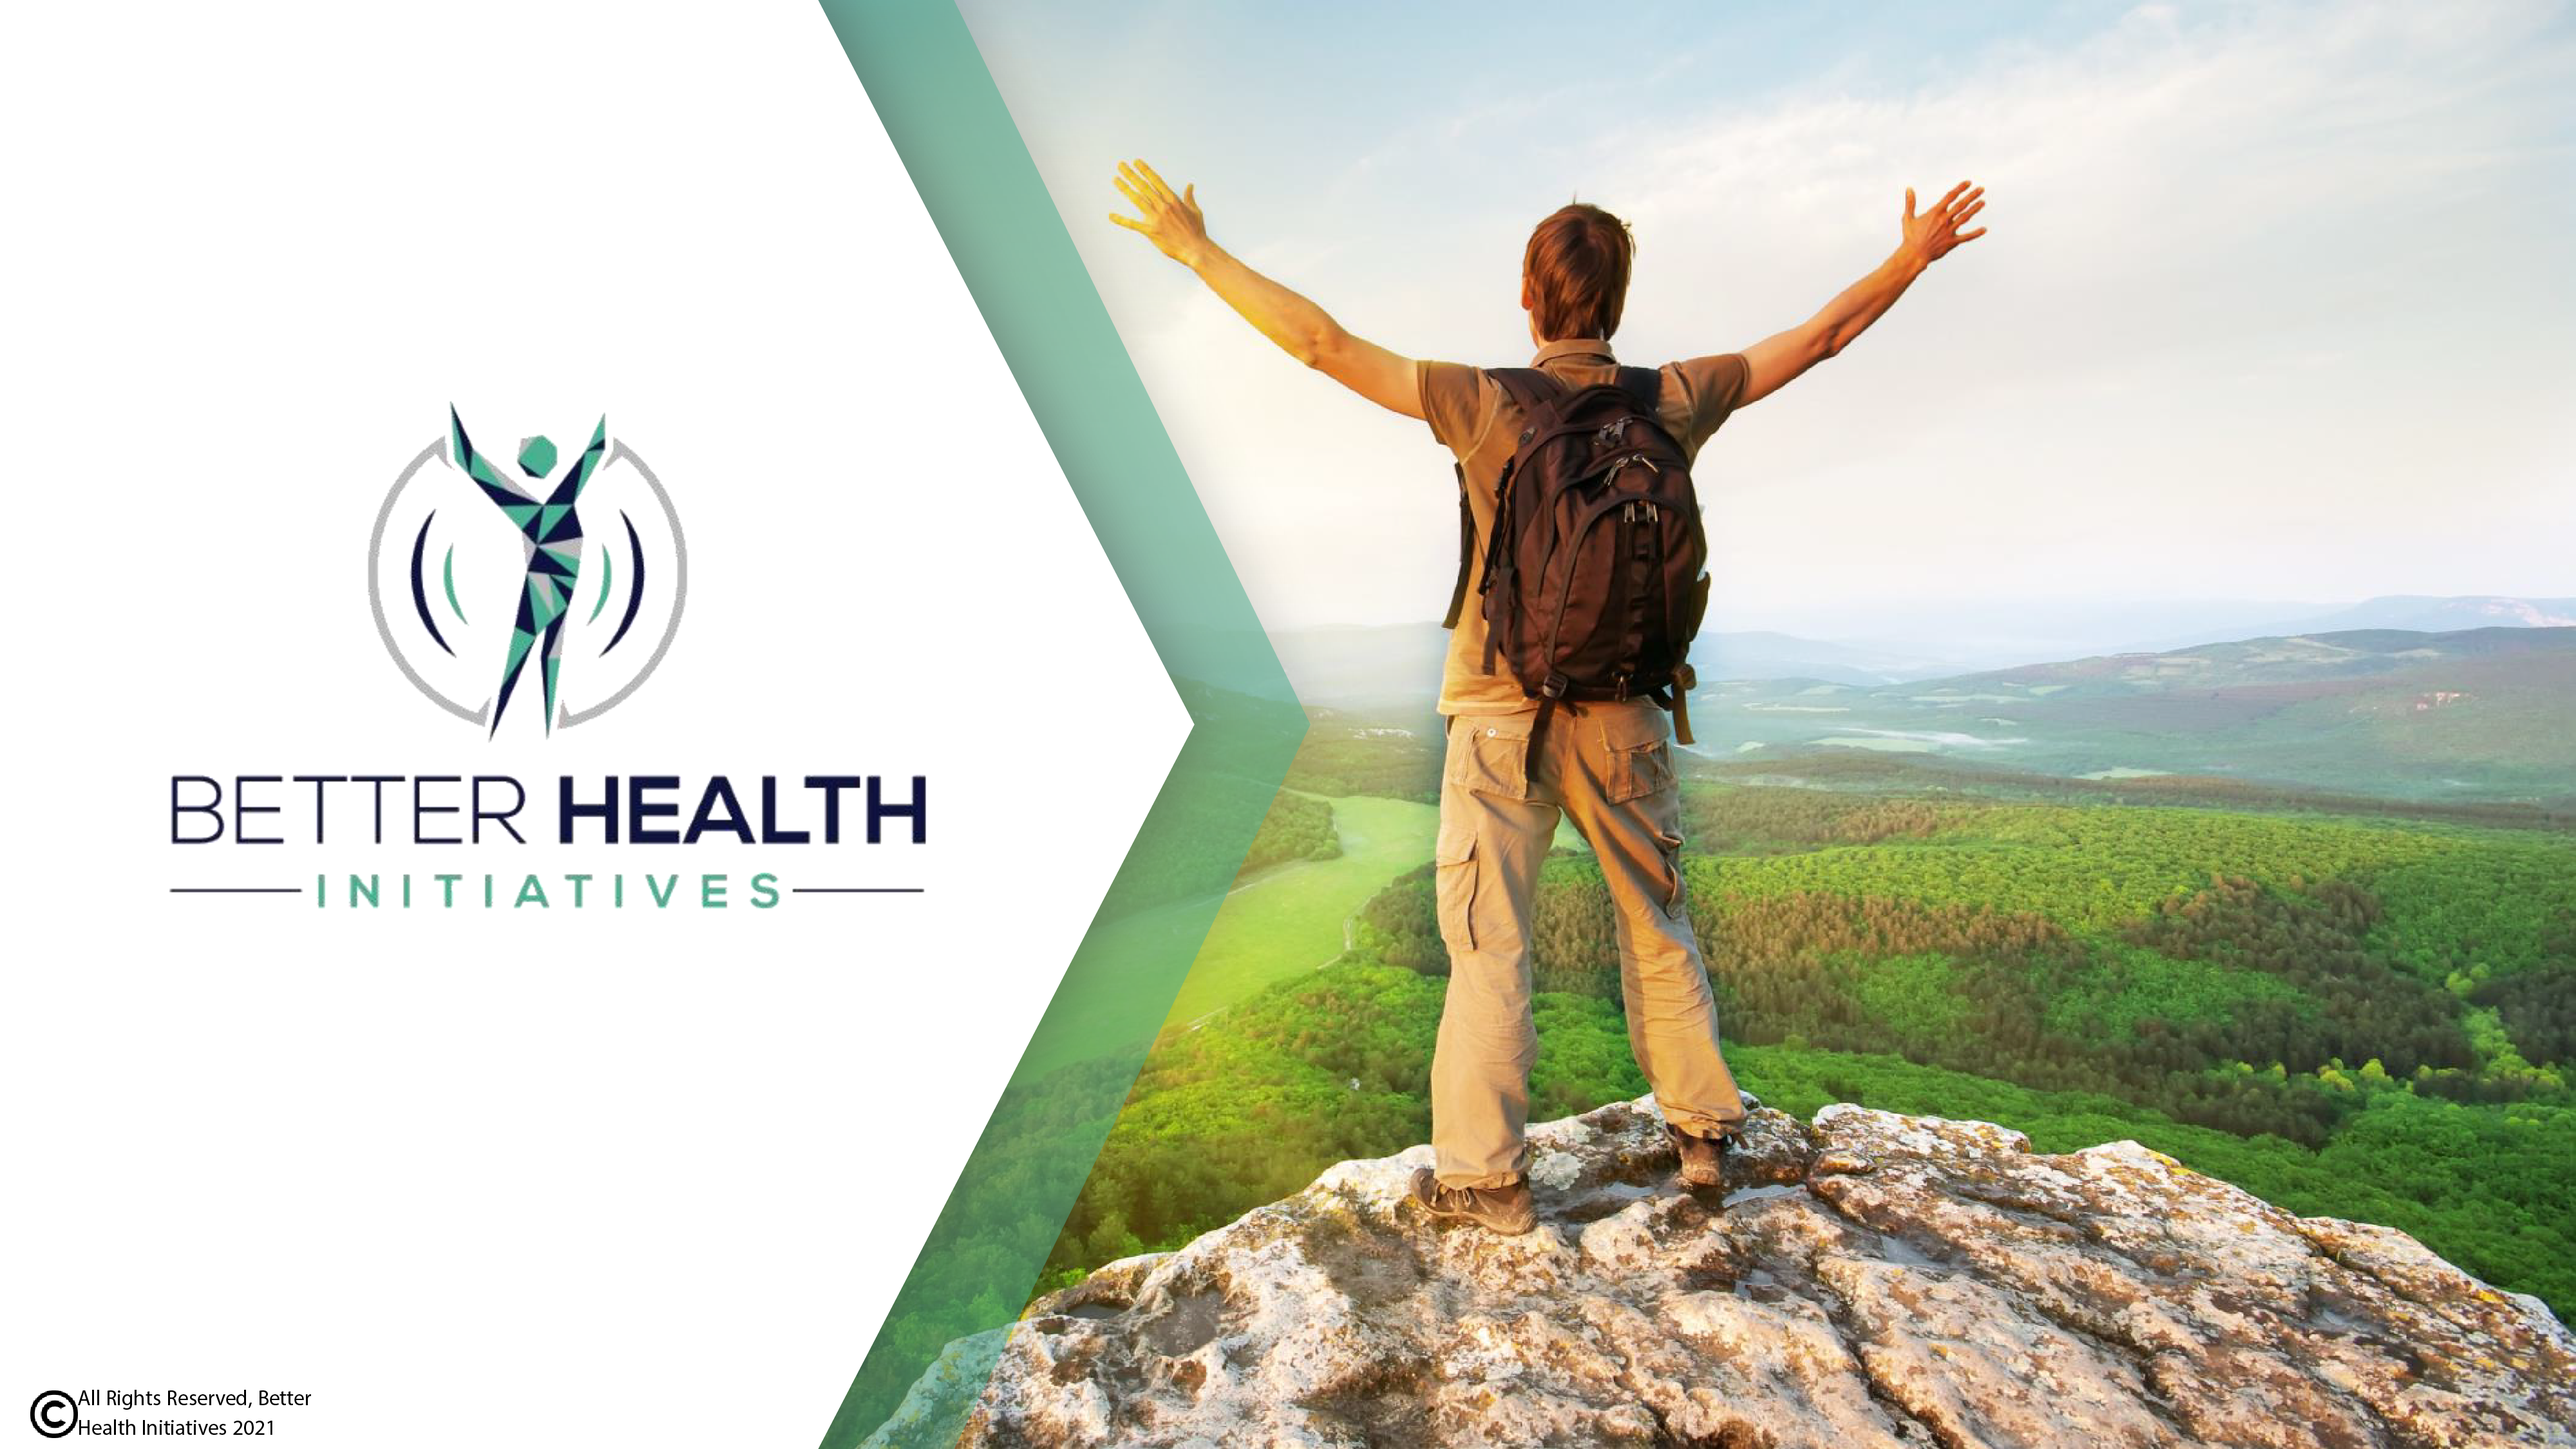
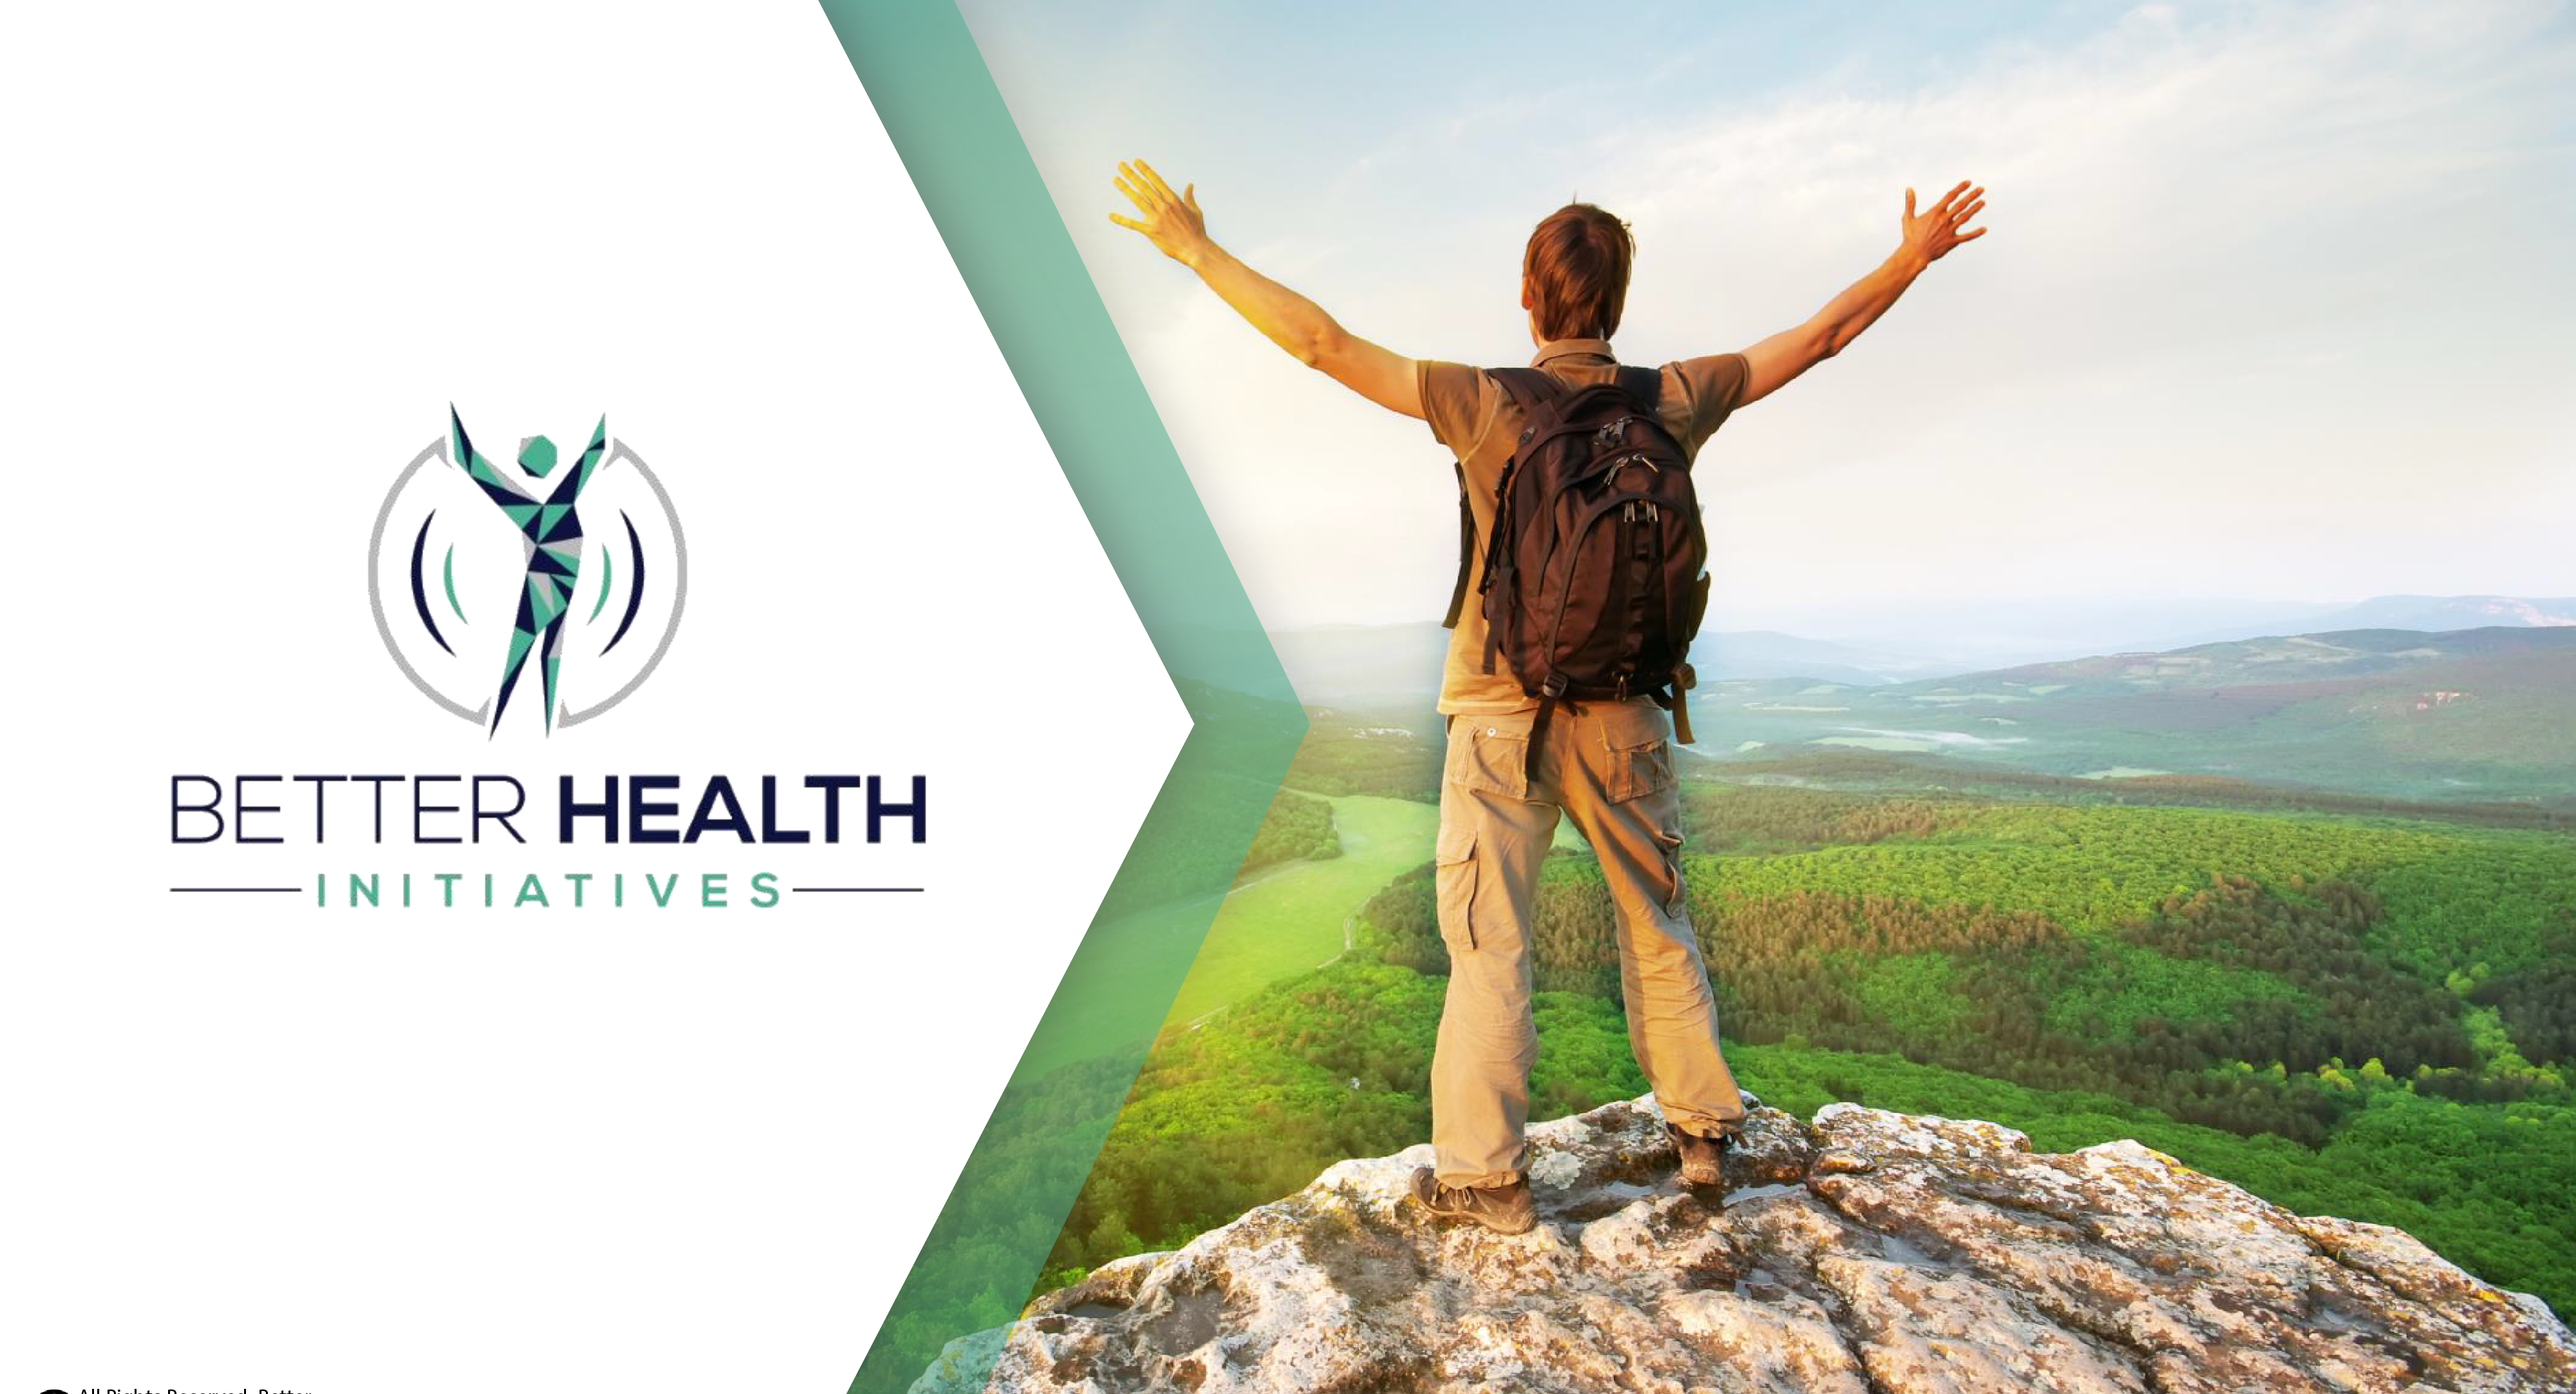
about section updated for moibile view

diff --git a/index.html b/index.html
@@ -82,22 +82,27 @@
           </div>
         </div>
       </section>
-      <section class="about container" id="about">
-        <h1>About Us</h1>
-        <div class="about__container">
+      <section class="about" id="about">
+        <div class="section-title about-title">
+          <h1>About Us</h1>
+          <span>Changing the way the world ages.</span>
+        </div>
+        <div class="about__container container grid">
           <div class="about__img">
             <img src="assets/images/morning-run.jpg" alt="" srcset="" />
           </div>
           <div class="about__info">
-            <h1>
-              About<br />
-              Better Health Initiatives
-            </h1>
-            <p>
-              A technology company that is focused on specialized, Healthcare
-              Professional support software that allows for expanded reach to
-              new and old patients and smarter, easier decision making.
-            </p>
+            <div class="about__content">
+              <h1>
+                About<br />
+                Better Health Initiatives
+              </h1>
+              <p>
+                A technology company that is focused on specialized, Healthcare
+                Professional support software that allows for expanded reach to
+                new and old patients and smarter, easier decision making.
+              </p>
+            </div>
           </div>
         </div>
       </section>

diff --git a/assets/css/style.css b/assets/css/style.css
@@ -232,14 +232,14 @@ img {
 /* Home Section */
 .home {
   width: 100%;
-  height: 80vh;
+  height: 100vh;
 }
 .home__img {
   position: absolute;
   top: 0;
   left: 0;
   width: 100%;
-  height: 80vh;
+  height: 100vh;
   object-fit: cover;
   object-position: 83%;
 }
@@ -257,26 +257,41 @@ img {
 }
 
 /* About Section */
+
+.section-title.about-title {
+  text-align: center;
+}
 .about__img {
-  margin-top: 100px;
+  margin-top: 60px;
   -webkit-clip-path: polygon(20% 0%, 80% 0%, 100% 100%, 0% 100%);
   clip-path: polygon(20% 0%, 80% 0%, 100% 100%, 0% 100%);
 }
 
 .about__container {
-  padding: 20px;
-  display: flex;
-  justify-content: space-around;
+  justify-content: center;
+  align-content: center;
 }
 
 .about__info {
-  width: 500px;
-  height: 500px;
-  padding: 10px;
+  width: 280px;
+  height: 280px;
+  padding-left: 10px;
+  margin-left: 10%;
   text-align: center;
   border-radius: 50%;
   box-shadow: 0px 0px 22px 3px rgba(0, 0, 0, 0.75);
   word-break: break-all;
+}
+
+.about__content {
+  padding: 10px 20px;
+}
+.about__info h1 {
+  font-size: var(--h3-font-size);
+}
+
+.about__info p {
+  font-size: 1rem;
 }
 blockquote::before {
   content: "“";
